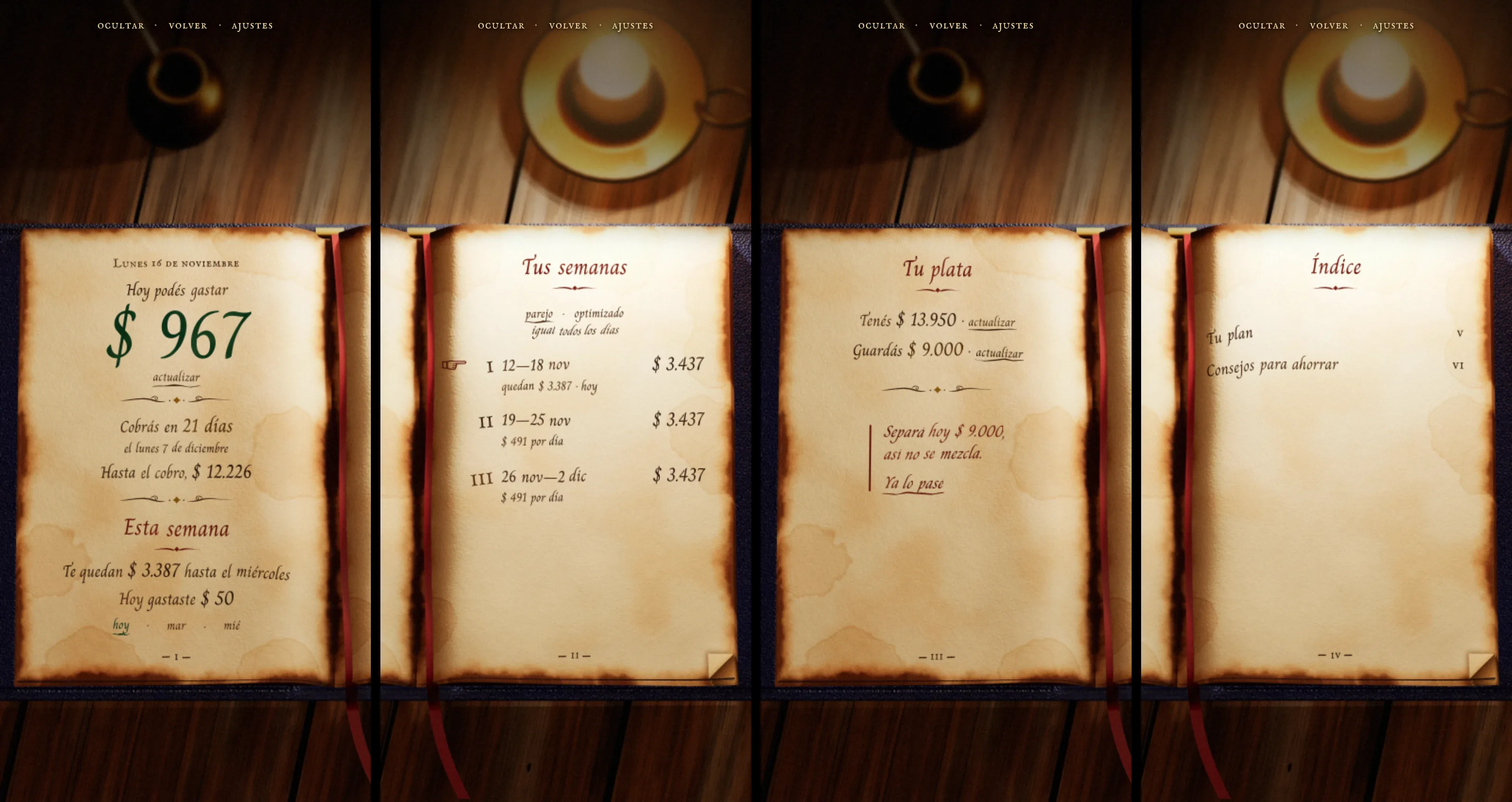
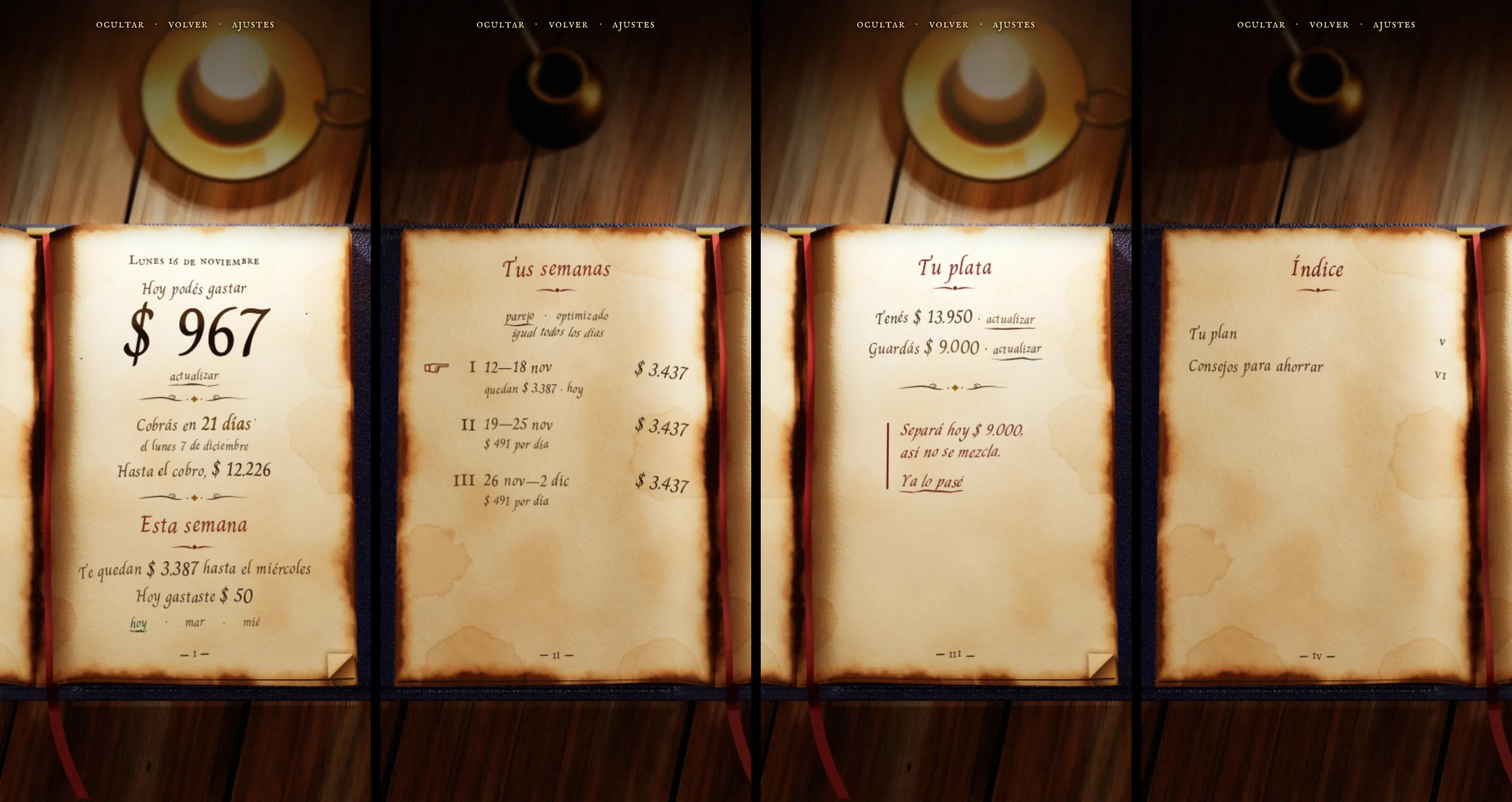
Hoy, pulido: el héroe en tinta, letra por letra, vuelta de hoja que sigue al dedo y la vela en la página i
Pedido de Agus. Solo prototipo/ y docs/decisiones.md: la app real no cambia.
- «$ 967» en la misma tinta sepia, más cargada (más oscura donde se junta, trazo apenas más grueso). Excepción a la
  regla de colores (jade = plata disponible) anotada en docs/decisiones.md.
- Cada letra con una variación fija: ±1,2° de giro, ±0,8 px de altura, ±3 % de tamaño. Intensidad de tinta distinta
  por palabra. Gotas mínimas de tinta junto a «$ 967» y «21 días». Notas nunca bajo 13 px (también a 320).
- Vuelta de hoja en 16 franjas que se curvan sobre un cilindro: sigue al dedo, termina si pasó un 35 % o el gesto fue
  rápido, si no vuelve. Luz en el doblez, dorso con el texto de atrás apenas visible y espejado, sombra que sigue al
  doblez. Solo transform y opacity; con «reducir movimiento», un fundido.
- Lados invertidos: las páginas impares (i Hoy) van a la derecha, con la vela.
Medido por guion en las seis páginas a 390 y 320 px: contraste AA, nada bajo 13 px, toques de 44 px, sin scroll,
ningún número en modo discreto. Sin medir todavía: los cuadros por segundo en el iPhone.

Claude-Session: https://claude.ai/code/session_018jzn9MgtH19HKQt42gAWeF

diff --git a/prototipo/hoy/index.html b/prototipo/hoy/index.html
@@ -12,7 +12,9 @@
   @font-face{font-family:'IM Fell SC';font-weight:400;font-display:block;src:url(fuentes/im-fell-english-sc-latin-400-normal.woff2) format('woff2')}
   :root{--pluma:'Charm','Iowan Old Style',Georgia,serif;--libro:'IM Fell SC','Iowan Old Style',Georgia,serif;--sepia:#4a2c14}
   html,body{margin:0;height:100%;background:#030201;overflow:hidden;-webkit-tap-highlight-color:transparent;-webkit-text-size-adjust:100%}
-  .mesa{position:fixed;inset:0;overflow:hidden;background:#030201;touch-action:pan-y;perspective:1600px}
+  .mesa{position:fixed;inset:0;overflow:hidden;background:#030201;touch-action:none;perspective:1700px}
+  /* arrastrar la hoja no tiene que seleccionar texto */
+  .mesa,.mesa *{-webkit-user-select:none;user-select:none;-webkit-touch-callout:none}
   /* la vista: la foto de la mesa con el libro (renderizada desde la escena 3D) y, encima, la página escrita */
   .vista{position:absolute;inset:0;isolation:isolate}
   .fondo{position:absolute;left:0;top:0;transform-origin:0 0;max-width:none;display:block;user-select:none;-webkit-user-select:none;pointer-events:none}
@@ -24,7 +26,7 @@
 
   /* ---- arriba, sobre la mesa: tres palabras en versalitas, a la luz de la vela ---- */
   .acciones{position:absolute;z-index:6;left:0;right:0;top:calc(4px + env(safe-area-inset-top));display:flex;justify-content:center;align-items:center;
-    font:400 calc(13px*var(--s,1))/1 var(--libro);letter-spacing:.06em;color:#e6cd9c;text-shadow:0 1px 3px #000,0 0 10px rgba(0,0,0,.9)}
+    font:400 max(13.4px,calc(13px*var(--s,1)))/1 var(--libro);letter-spacing:.06em;color:#e6cd9c;text-shadow:0 1px 3px #000,0 0 10px rgba(0,0,0,.9)}
   .acciones button{all:unset;cursor:pointer;min-width:44px;min-height:44px;padding:0 10px;display:grid;place-items:center}
   .acciones button:focus-visible{outline:1.5px solid #e6cd9c;outline-offset:-6px;border-radius:6px}
   .acciones .pt{opacity:.7}
@@ -41,6 +43,13 @@
     -webkit-background-clip:text;background-clip:text;color:transparent;-webkit-text-fill-color:transparent;
     padding:.3em .05em .34em;margin:-.3em -.05em -.34em;white-space:nowrap;
     transform:translateY(calc(var(--dy,0px) + var(--cy,0px))) rotate(calc(var(--g,0deg) + var(--cg,0deg)))}
+  /* letra por letra: cada una un poco girada, corrida y de otro tamaño (fijo, sale siempre igual) */
+  .l{display:inline-block;background-image:var(--tt,var(--t-sepia));background-size:160px 160px;background-position:var(--bx,0) var(--by,0);
+    -webkit-background-clip:text;background-clip:text;color:transparent;-webkit-text-fill-color:transparent;padding:.3em .16em .34em;margin:-.3em -.16em -.34em;
+    /* (el margen de cada lado es para la letra inclinada: si no, su tinta se recorta) */
+    transform:translateY(var(--ly,0)) rotate(var(--lr,0deg)) scale(var(--le,1))}
+  .w.conl,.m.conl{background-image:none}
+  .w,.m{opacity:var(--carga,1)}
   .suave{--tt:var(--t-suave)} .fuerte{--tt:var(--t-fuerte)} .rojo{--tt:var(--t-rojo)} .oro{--tt:var(--t-oro)} .verde{--tt:var(--t-verde)}
   button{all:unset;position:relative;cursor:pointer;font:inherit}
   .toc::after{content:"";position:absolute;left:50%;top:50%;width:max(calc(100% + 16px),48px);height:48px;transform:translate(-50%,-50%)}
@@ -48,10 +57,15 @@
   svg.trazo{position:absolute;left:-3%;bottom:-.24em;width:106%;height:.5em;overflow:visible;pointer-events:none}
 
   /* ---- los cinco tamaños (a 390 px; a 320 px todo al 85 %) ---- */
-  .heroe{font-size:calc(72px*var(--s));line-height:1.02;white-space:nowrap}
+  .heroe{font-size:calc(72px*var(--s));line-height:1.02;white-space:nowrap;position:relative}
+  /* el héroe: la misma tinta, pero más cargada; cada letra con el trazo un poco más grueso donde arranca la pluma */
+  .cargada{--tt:var(--t-cargada)}
+  .heroe .l{-webkit-text-stroke:var(--sk,.5px) rgba(34,16,5,.5)}
+  .grande.oro .l{-webkit-text-stroke:calc(var(--sk,.5px)*.5) rgba(110,70,8,.35)}
+  .gota{position:absolute;border-radius:50%;background:radial-gradient(circle at 40% 35%,#3a1c08,#24110500 72%);pointer-events:none}
   .titulo{font-size:calc(24px*var(--s));line-height:1.15}
   .cifra{font-size:calc(20px*var(--s))}
-  .nota{font-size:calc(13px*var(--s));line-height:1.4}
+  .nota{font-size:max(13.4px,calc(13px*var(--s)));line-height:1.4}
   .libro{font-family:var(--libro);letter-spacing:.05em}
   .cur{font-style:italic}
 
@@ -61,7 +75,7 @@
   .adornito{display:block;width:30%;height:calc(10px*var(--s));margin:calc(4px*var(--s)) auto calc(14px*var(--s)*var(--a,1))}
   .renglon+.renglon{margin-top:calc(6px*var(--s)*var(--a,1))}
   .bloque{margin-top:calc(8px*var(--s)*var(--a,1))}
-  .folio{position:absolute;left:0;right:0;bottom:calc(16px*var(--s));font-size:calc(13px*var(--s))}
+  .folio{position:absolute;left:0;right:0;bottom:calc(16px*var(--s));font-size:max(13.4px,calc(13px*var(--s)))}
   .dias{display:flex;justify-content:center;gap:calc(18px*var(--s));margin-top:calc(10px*var(--s)*var(--a,1))}
   .hoydia svg.trazo path{fill:#0f4a2a}
   /* la lista de semanas: la única con dos columnas, como un libro de cuentas */
@@ -80,7 +94,7 @@
   .margen::before{content:"";position:absolute;left:0;top:.2em;bottom:.2em;width:1.6px;background:#7a2014;border-radius:1px;transform:rotate(.4deg)}
   .indice{margin-top:calc(10px*var(--s)*var(--a,1));text-align:left}
   .entrada{display:flex;justify-content:space-between;align-items:baseline;width:100%;padding:calc(6px*var(--s)) 0}
-  .entrada .libro{font-size:calc(15px*var(--s))}
+  .entrada .libro{font-size:max(13.4px,calc(15px*var(--s)))}
 
   /* ---- modo discreto: el monto se saca de la página y queda una mancha de tinta en su lugar ---- */
   html[data-discreto] .m{position:relative;background-image:none}
@@ -90,13 +104,17 @@
   .esquina{position:absolute;z-index:5;width:56px;height:56px;cursor:pointer;background:none;border:0;padding:0}
   .esquina:focus-visible{outline:1.5px solid #e6cd9c;border-radius:50%}
   .esquina[hidden]{display:none}
-  /* la hoja que da vuelta (una copia de la vista anterior, recortada a la página) */
+  /* ---- la vuelta de hoja: la hoja (una copia de la vista anterior) cortada en 16 franjas verticales que giran de a poco ---- */
   .giro{position:absolute;inset:0;z-index:4;pointer-events:none;transform-style:preserve-3d}
-  .giro .cara,.giro .dorso{position:absolute;inset:0;backface-visibility:hidden;-webkit-backface-visibility:hidden}
-  .giro .dorso{transform:rotateY(180deg);background:linear-gradient(90deg,#b49466,#d9c39a 30%,#e2cfa9 60%,#c4a77a)}
-  .giro .luz{position:absolute;inset:0;opacity:0}
-  .velo-viejo{position:absolute;inset:0;z-index:3;pointer-events:none}
-  .sombra-giro{position:absolute;inset:0;z-index:3;pointer-events:none;opacity:0;background:linear-gradient(90deg,rgba(10,5,2,.55),rgba(10,5,2,0) 60%)}
+  .franja{position:absolute;transform-style:preserve-3d;will-change:transform}
+  .franja>div{position:absolute;inset:0;overflow:hidden;backface-visibility:hidden;-webkit-backface-visibility:hidden}
+  .franja .reves{transform:rotateY(180deg)}
+  .franja .copia{position:absolute;isolation:isolate}
+  .franja .lavado{position:absolute;inset:0;background:#e2cfa4;opacity:.8}
+  .franja .tono{position:absolute;inset:0;background:#120802;opacity:0;will-change:opacity}
+  .franja .brillo{position:absolute;inset:0;background:#fff3dc;opacity:0;will-change:opacity}
+  .velo-viejo{position:absolute;inset:0;z-index:3;pointer-events:none;will-change:opacity}
+  .sombra-giro{position:absolute;z-index:3;pointer-events:none;opacity:0;will-change:transform,opacity}
 </style>
 </head>
 <body>
@@ -109,10 +127,10 @@
     <article class="pag" data-n="1" aria-label="Página i: Hoy">
       <p class="encab nota libro suave">Lunes 16 de noviembre</p>
       <p>Hoy podés gastar</p>
-      <p class="heroe verde"><span class="m" id="monto">$ 967</span></p>
+      <p class="heroe cargada" id="heroe"><span class="m" id="monto">$ 967</span></p>
       <p class="nota"><button class="toc sub" type="button">actualizar</button></p>
       <svg class="adorno" viewBox="0 0 220 24" aria-hidden="true"><use href="#floritura"/></svg>
-      <p class="renglon">Cobrás en <span class="cifra oro">21 días</span></p>
+      <p class="renglon">Cobrás en <span class="cifra oro grande" id="dias21" style="position:relative">21 días</span></p>
       <p class="nota suave">el lunes 7 de diciembre</p>
       <p class="renglon bloque">Hasta el cobro, <span class="cifra fuerte"><span class="m">$ 12.226</span></span></p>
       <svg class="adorno" viewBox="0 0 220 24" aria-hidden="true"><use href="#floritura"/></svg>
@@ -238,10 +256,19 @@ function aPluma(n){
     if(!n.textContent.trim())return;
     const f=document.createDocumentFragment();
     n.textContent.split(/(\s+)/).forEach(t=>{if(!t)return;if(/^\s+$/.test(t)){f.appendChild(document.createTextNode(' '));return}
-      const s=document.createElement('span');s.className='w';s.textContent=t;vestir(s);f.appendChild(s)});
+      const s=document.createElement('span');s.className='w';s.textContent=t;vestir(s);letras(s);f.appendChild(s)});
     n.parentNode.replaceChild(f,n)}
-  else if(n.nodeType===1&&n.tagName.toLowerCase()!=='svg'){if(n.classList.contains('m')){vestir(n);return}[...n.childNodes].forEach(aPluma)}}
-function vestir(s){s.style.setProperty('--dy',((rPal()-.5)*1.5).toFixed(2)+'px');s.style.setProperty('--g',((rPal()-.5)*1.7).toFixed(2)+'deg');s.style.setProperty('--bx',Math.round(rPal()*160)+'px');s.style.setProperty('--by',Math.round(rPal()*160)+'px');nPal++}
+  else if(n.nodeType===1&&n.tagName.toLowerCase()!=='svg'){if(n.classList.contains('m')){vestir(n);letras(n);return}[...n.childNodes].forEach(aPluma)}}
+/* cada letra, con una variación chica y fija: ±1,2° de giro, ±0,8 px de altura y ±3 % de tamaño */
+const rLet=azar(91);
+function letras(el){
+  if(el.children.length||!el.textContent.trim())return;
+  const t=el.textContent;el.textContent='';el.classList.add('conl');
+  for(const ch of t){if(ch===' '){el.appendChild(document.createTextNode(' '));continue}
+    const l=document.createElement('span');l.className='l';l.textContent=ch;
+    l.style.setProperty('--lr',((rLet()-.5)*2.4).toFixed(2)+'deg');l.style.setProperty('--ly',((rLet()-.5)*1.6).toFixed(2)+'px');l.style.setProperty('--le',(.97+rLet()*.06).toFixed(3));
+    l.style.setProperty('--sk',(.25+rLet()*.7).toFixed(2)+'px');el.appendChild(l)}}
+function vestir(s){s.style.setProperty('--carga',(.86+rPal()*.14).toFixed(2));s.style.setProperty('--dy',((rPal()-.5)*1.5).toFixed(2)+'px');s.style.setProperty('--g',((rPal()-.5)*1.7).toFixed(2)+'deg');s.style.setProperty('--bx',Math.round(rPal()*160)+'px');s.style.setProperty('--by',Math.round(rPal()*160)+'px');nPal++}
 
 /* ---- trazos de pluma irregulares para los subrayados (cada uno distinto) ---- */
 function trazo(semilla,color){
@@ -280,11 +307,12 @@ function curvar(pag,w){
     const s=Math.max(0,izq?1-x/w:x/w),dy=A*Math.exp(-((s/S)**2)),pend=-2*s/(S*S)*dy/w*(izq?-1:1);
     el.style.setProperty('--cy',dy.toFixed(2)+'px');el.style.setProperty('--cg',(Math.atan(pend)*57.3).toFixed(2)+'deg')})}
 
-raiz.style.setProperty('--t-verde',baldosa([10,58,32],[44,96,62],1));   /* la plata disponible */
+raiz.style.setProperty('--t-verde',baldosa([10,58,32],[44,96,62],1));   /* el subrayado de «hoy» */
+raiz.style.setProperty('--t-cargada',baldosa([26,12,4],[74,42,17],1.5)); /* el héroe: la pluma bien cargada, más oscura donde se junta la tinta */
 
-/* ---- qué página está a la vista. Las impares van en la página izquierda del libro y las pares en la derecha ---- */
+/* ---- qué página está a la vista. Las impares van en la página derecha del libro (con la vela) y las pares en la izquierda (con el tintero) ---- */
 let n=Math.min(PAGS.length,Math.max(1,+(Q.get('p')||1)));
-const ladoDe=k=>k%2?'izq':'der';
+const ladoDe=k=>k%2?'der':'izq';
 let geo=null;
 function escala(w){return Math.min(1,Math.max(.85,.85+(w-320)/70*.15))}
 function acomodar(){
@@ -315,49 +343,126 @@ function acomodar(){
 function ajustar(pag,h){
   let a=1;const sobra=()=>{pag.style.height='auto';const s=pag.scrollHeight;pag.style.height=h+'px';return s-h};
   pag.style.setProperty('--a','1');
-  while(sobra()>0&&a>.2){a-=.08;pag.style.setProperty('--a',a.toFixed(2))}
+  while(sobra()>0&&a>.04){a-=.06;pag.style.setProperty('--a',a.toFixed(2))}
   return {a:+a.toFixed(2),sobra:Math.round(sobra())}}
 
-/* ---- pasar la hoja: una vuelta de hoja de 0,6 s. La vista anterior se copia; la hoja (recortada a la página) gira
-   sobre su borde y muestra el dorso, mientras la mesa de antes se desvanece sobre la nueva. Con «reducir movimiento», un fundido ---- */
-let girando=false;
+/* ---- la vuelta de hoja ----
+   La hoja es una copia de la vista anterior cortada en 16 franjas verticales. Cada franja gira sobre su borde un poco
+   más que la anterior, así la hoja se curva (no gira rígida): queda plana hasta el doblez y después se enrolla sobre un
+   cilindro. En el doblez, una luz suave; del otro lado, el dorso con el texto de atrás apenas visible y espejado; abajo,
+   una sombra que sigue al doblez. Sigue al dedo; al soltar termina o vuelve. Solo se animan transform y opacity.
+   Con «reducir movimiento», solo un fundido. */
+const NF=16,PI=Math.PI;
 function quieto(){try{return matchMedia('(prefers-reduced-motion: reduce)').matches}catch(e){return false}}
-function ir(destino){
-  if(girando||destino<1||destino>PAGS.length||destino===n)return;
-  const dir=destino>n?1:-1,viejo=vista.cloneNode(true);viejo.removeAttribute('id');viejo.querySelectorAll('[id]').forEach(e=>e.removeAttribute('id'));
-  const g0=geo;n=destino;acomodar();girando=true;
-  const fin=()=>{girando=false;[base,giro,sombra].forEach(e=>e&&e.remove())};
-  let base=null,giro=null,sombra=null;
-  if(quieto()||!viejo.animate){base=viejo;base.className='vista velo-viejo';mesa.appendChild(base);
-    if(!base.animate){fin();return}base.animate([{opacity:1},{opacity:0}],{duration:300,easing:'ease-in-out'}).onfinish=fin;return}
-  const poli='polygon('+g0.q.map(p=>p[0].toFixed(1)+'px '+p[1].toFixed(1)+'px').join(',')+')';
-  /* lo que queda atrás de la hoja que gira: solo la mesa de antes, sin letras (así nunca se ven dos textos encimados) */
-  base=viejo.cloneNode(true);base.className='vista velo-viejo';base.querySelectorAll('.pag').forEach(e=>e.remove());mesa.appendChild(base);
-  giro=document.createElement('div');giro.className='giro';
-  const eje=dir>0?Math.min(g0.q[0][0],g0.q[3][0]):Math.max(g0.q[1][0],g0.q[2][0]);
-  giro.style.transformOrigin=eje.toFixed(1)+'px 50%';
-  viejo.className='vista cara';viejo.style.clipPath=poli;
-  const dorso=document.createElement('div');dorso.className='dorso';dorso.style.clipPath=poli;
-  const luzG=document.createElement('div');luzG.className='luz';luzG.style.clipPath=poli;luzG.style.background=`linear-gradient(${dir>0?90:270}deg,rgba(255,240,210,.0),rgba(255,240,210,.35) 70%,rgba(30,15,5,.4))`;
-  giro.append(viejo,dorso,luzG);mesa.appendChild(giro);
-  sombra=document.createElement('div');sombra.className='sombra-giro';if(dir<0)sombra.style.transform='scaleX(-1)';mesa.appendChild(sombra);
-  const T=600,ease='cubic-bezier(.45,.05,.3,1)';
-  base.animate([{opacity:1},{opacity:1,offset:.25},{opacity:0}],{duration:T*.8,easing:'ease-in-out',fill:'forwards'});
-  sombra.animate([{opacity:0},{opacity:1,offset:.45},{opacity:0}],{duration:T,easing:'ease-in-out'});
-  luzG.animate([{opacity:0},{opacity:.9,offset:.4},{opacity:0,offset:.5},{opacity:0}],{duration:T,easing:'linear'});
-  giro.animate([{transform:'rotateY(0deg) skewY(0deg)'},{transform:`rotateY(${-dir*70}deg) skewY(${dir*1.6}deg)`,offset:.4},{transform:`rotateY(${-dir*180}deg) skewY(0deg)`}],{duration:T,easing:ease,fill:'forwards'}).onfinish=fin;
+let G=null; /* la vuelta en curso */
+function limpiaIds(el){el.removeAttribute('id');el.querySelectorAll('[id]').forEach(e=>e.removeAttribute('id'));return el}
+function crearGiro(dir){
+  const destino=n+dir;if(destino<1||destino>PAGS.length)return null;
+  const viejo=limpiaIds(vista.cloneNode(true)),q=geo.q,W0=geo.w,H0=geo.h,desde=n;
+  const xL=Math.min(q[0][0],q[3][0]),xR=Math.max(q[1][0],q[2][0]),yT=Math.min(q[0][1],q[1][1]),yB=Math.max(q[2][1],q[3][1]),W=xR-xL,H=yB-yT,sw=W/NF;
+  const yt=x=>q[0][1]+(q[1][1]-q[0][1])*(x-q[0][0])/(q[1][0]-q[0][0]),yb=x=>q[3][1]+(q[2][1]-q[3][1])*(x-q[3][0])/(q[2][0]-q[3][0]);
+  n=destino;acomodar(); /* la página nueva queda abajo, esperando */
+  /* la mesa de antes, sin la página (agujereada donde está la hoja), se desvanece mientras la hoja gira */
+  const base=limpiaIds(viejo.cloneNode(true));base.className='vista velo-viejo';base.querySelectorAll('.pag').forEach(e=>e.remove());
+  base.style.clipPath=`path(evenodd,'M0 0H${W0}V${H0}H0Z M${q.map(p=>p[0].toFixed(1)+' '+p[1].toFixed(1)).join(' L')}Z')`;
+  const giro=document.createElement('div');giro.className='giro';
+  const franjas=[];
+  for(let i=0;i<NF;i++){
+    const x0=xL+i*sw,x1=x0+sw+.7,f=document.createElement('div');f.className='franja';
+    f.style.cssText=`left:${x0.toFixed(2)}px;top:${yT.toFixed(2)}px;width:${(x1-x0).toFixed(2)}px;height:${H.toFixed(2)}px;transform-origin:${dir>0?'0':'100%'} 50%`;
+    const corte=`polygon(0 ${(yt(x0)-yT).toFixed(1)}px,100% ${(yt(x1)-yT).toFixed(1)}px,100% ${(yb(x1)-yT).toFixed(1)}px,0 ${(yb(x0)-yT).toFixed(1)}px)`;
+    const cara=document.createElement('div'),reves=document.createElement('div');reves.className='reves';
+    cara.style.clipPath=corte;reves.style.clipPath=`polygon(0 ${(yt(x1)-yT).toFixed(1)}px,100% ${(yt(x0)-yT).toFixed(1)}px,100% ${(yb(x0)-yT).toFixed(1)}px,0 ${(yb(x1)-yT).toFixed(1)}px)`;
+    const c1=i?viejo.cloneNode(true):viejo;c1.className='copia';c1.style.cssText=`left:${(-x0).toFixed(2)}px;top:${(-yT).toFixed(2)}px;width:${W0}px;height:${H0}px`;
+    /* el dorso: la misma hoja espejada y lavada con el color del papel: el texto de atrás apenas se adivina */
+    const c2=c1.cloneNode(true);c2.style.transform=`scaleX(-1)`;c2.style.transformOrigin=`${(x0+(x1-x0)/2).toFixed(2)}px 0`;
+    const tono=document.createElement('div');tono.className='tono';const brillo=document.createElement('div');brillo.className='brillo';
+    const tono2=document.createElement('div');tono2.className='tono';
+    cara.append(c1,tono,brillo);const lav=document.createElement('div');lav.className='lavado';reves.append(c2,lav,tono2);
+    f.append(cara,reves);giro.appendChild(f);franjas.push({f,tono,brillo,tono2});
+  }
+  if(dir<0)franjas.reverse(); /* hacia atrás, la hoja gira sobre su borde derecho: se cuenta desde ahí */
+  const sombra=document.createElement('div');sombra.className='sombra-giro';
+  sombra.style.cssText=`left:0;top:${yT.toFixed(1)}px;width:${(W*.42).toFixed(1)}px;height:${H.toFixed(1)}px;background:linear-gradient(${dir>0?90:270}deg,rgba(14,6,2,.62),rgba(14,6,2,.22) 35%,rgba(14,6,2,0))`;
+  mesa.append(base,sombra,giro);
+  const R=W*.17;
+  function pintar(p){
+    p=Math.max(0,Math.min(1,p));
+    const fold=(1-p)*W-p*PI*R;let X=0,Z=0;
+    franjas.forEach((s,i)=>{
+      const sIni=i*sw,th=Math.max(0,Math.min(PI,(sIni+sw/2-fold)/R));
+      const tx=dir>0?X-sIni:-(X-sIni);
+      s.f.style.transform=`translate3d(${tx.toFixed(2)}px,0,${Z.toFixed(2)}px) rotateY(${(dir>0?-th:th).toFixed(4)}rad)`;
+      s.tono.style.opacity=(th<PI/2?.42*th/(PI/2):0).toFixed(3);
+      s.brillo.style.opacity=(th>0&&th<PI*.6?.32*Math.sin(th*1.6):0).toFixed(3);
+      s.tono2.style.opacity=(th>PI/2?.4*(1-(th-PI/2)/(PI/2)):0).toFixed(3);
+      X+=sw*Math.cos(th);Z+=sw*Math.sin(th)});
+    const fx=dir>0?xL+Math.max(0,fold):xR-Math.max(0,fold)-W*.42;
+    sombra.style.transform=`translateX(${fx.toFixed(1)}px)`;sombra.style.opacity=(Math.sin(p*PI)*.95).toFixed(3);
+    base.style.opacity=(1-p).toFixed(3);
+  }
+  pintar(0);
+  return {dir,desde,W,pintar,fin(){[base,sombra,giro].forEach(e=>e.remove())}};
 }
-document.getElementById('adelante').addEventListener('click',()=>ir(n+1));
-document.getElementById('atras').addEventListener('click',()=>ir(n-1));
-let x0=null,y0=0;
-mesa.addEventListener('pointerdown',e=>{x0=e.clientX;y0=e.clientY});
-mesa.addEventListener('pointerup',e=>{if(x0===null)return;const dx=e.clientX-x0,dy=e.clientY-y0;x0=null;if(Math.abs(dx)>50&&Math.abs(dx)>Math.abs(dy)*1.4)ir(n+(dx<0?1:-1))});
+/* lleva la vuelta de p0 a p1 en «dur» ms (curva suave) y al final la cierra */
+function animar(g,p0,p1,dur,alFin){
+  const t0=performance.now(),ease=t=>t<.5?4*t*t*t:1-Math.pow(-2*t+2,3)/2;
+  const tic=now=>{const t=Math.min(1,(now-t0)/dur),p=p0+(p1-p0)*ease(t);g.pintar(p);if(t<1)requestAnimationFrame(tic);else alFin()};
+  requestAnimationFrame(tic);
+}
+function terminar(g,p,ok){
+  g.p=p;
+  if(ok)return()=>{g.fin();G=null};
+  return()=>{g.fin();n=g.desde;acomodar();G=null};
+}
+/* pasar la hoja de una (esquinas, teclado, índice) */
+function ir(destino){
+  if(G||destino===n||destino<1||destino>PAGS.length)return;
+  if(quieto()){fundido(destino);return}
+  if(Math.abs(destino-n)>1){fundido(destino);return}
+  const g=crearGiro(destino>n?1:-1);if(!g)return;G=g;
+  animar(g,0,1,600,terminar(g,1,true));
+}
+function fundido(destino){
+  const viejo=limpiaIds(vista.cloneNode(true));viejo.className='vista velo-viejo';n=destino;acomodar();mesa.appendChild(viejo);
+  if(!viejo.animate){viejo.remove();return}
+  viejo.animate([{opacity:1},{opacity:0}],{duration:300,easing:'ease-in-out'}).onfinish=()=>viejo.remove();
+}
+document.getElementById('adelante').addEventListener('click',()=>{if(!arrastro)ir(n+1)});
+document.getElementById('atras').addEventListener('click',()=>{if(!arrastro)ir(n-1)});
 document.addEventListener('keydown',e=>{if(e.key==='ArrowRight')ir(n+1);if(e.key==='ArrowLeft')ir(n-1)});
 vista.addEventListener('click',e=>{const b=e.target.closest('[data-ir]');if(b)ir(+b.dataset.ir)});
+/* ---- con el dedo: la hoja se levanta y acompaña al dedo; al soltar, si pasó un 35 % del ancho o el gesto fue rápido, termina ---- */
+let toque=null,arrastro=false;
+mesa.addEventListener('pointerdown',e=>{if(G)return;try{getSelection().removeAllRanges()}catch(x){}toque={x:e.clientX,y:e.clientY,id:e.pointerId,pts:[[e.clientX,performance.now()]]};arrastro=false});
+mesa.addEventListener('pointermove',e=>{
+  if(!toque||e.pointerId!==toque.id)return;const dx=e.clientX-toque.x,dy=e.clientY-toque.y;
+  toque.pts.push([e.clientX,performance.now()]);if(toque.pts.length>8)toque.pts.shift();
+  if(!arrastro){
+    if(Math.abs(dx)<10||Math.abs(dx)<Math.abs(dy)*1.2)return;
+    const dir=dx<0?1:-1;if(n+dir<1||n+dir>PAGS.length){toque=null;return}
+    arrastro=true;try{mesa.setPointerCapture(e.pointerId)}catch(x){}
+    if(quieto()){toque.quieto=dir;return}
+    G=crearGiro(dir);if(!G){toque=null;return}
+  }
+  if(G)G.pintar(Math.max(0,-G.dir*dx)/G.W);
+});
+function soltar(e){
+  if(!toque||e.pointerId!==toque.id)return;const t=toque;toque=null;
+  if(!arrastro)return;setTimeout(()=>{arrastro=false},0);
+  if(t.quieto){fundido(n+t.quieto);return}
+  const g=G;if(!g)return;
+  const a=t.pts[0],b=t.pts[t.pts.length-1],v=(b[0]-a[0])/Math.max(1,b[1]-a[1]),dx=e.clientX-t.x,p=Math.max(0,Math.min(1,-g.dir*dx/g.W)),rapido=-g.dir*v>.45;
+  if(p>.35||rapido){const vel=Math.max(Math.abs(v),.55),dur=Math.max(450*(1-p)+60,Math.min(700,(1-p)*g.W/vel*1.6));animar(g,p,1,Math.min(700,dur),terminar(g,1,true))}
+  else animar(g,p,0,Math.max(160,Math.min(450,p*g.W/.7)),terminar(g,0,false));
+}
+mesa.addEventListener('pointerup',soltar);mesa.addEventListener('pointercancel',soltar);
 
 /* ---- armado ---- */
 if(Q.get('monto')==='6767')document.getElementById('monto').textContent='$ 6.767';
 PAGS.forEach(p=>[...p.childNodes].forEach(aPluma));
+/* una gota mínima de tinta cerca de los números grandes, como las que deja la pluma */
+[['heroe',[[.93,.2,3.2],[.06,.86,2.2]]],['dias21',[[1.04,.32,2],[.5,.98,1.5]]]].forEach(([id,gs])=>{const el=document.getElementById(id);if(!el)return;gs.forEach(([x,y,r])=>{const g=document.createElement('span');g.className='gota';g.setAttribute('aria-hidden','true');g.style.cssText=`left:${x*100}%;top:${y*100}%;width:calc(${r}px*var(--s));height:calc(${(r*.86).toFixed(2)}px*var(--s))`;el.appendChild(g)})});
 vista.querySelectorAll('.sub').forEach((b,i)=>b.insertAdjacentHTML('beforeend',trazo(50+i*13,b.closest('.rojo')?'#7a2014':'#4a2c14')));
 manchar();
 

diff --git a/docs/decisiones.md b/docs/decisiones.md
@@ -23,6 +23,7 @@ Una línea por decisión. Lo nuevo va arriba. El detalle técnico de cada una es
 - **Cómo «llaman» los dos libros (2.64):** una luz tenue y cálida que sale de atrás de cada uno y un movimiento apenas visible. Descartado: el halo de color y la lámpara a la vista.
 - **La galaxia de la tapa (2.64):** queda estampada en oro, con la constelación de cada libro encima.
 - **Excepción de colores:** los colores de la escena 3D (madera, luces, cueros) los pone Three.js y no salen de `:root`; lo de afuera (nombres, flechas, velo) sí.
+- **Dentro del libro, la plata disponible va en tinta sepia, no en jade (pedido de Agus, en prueba en `prototipo/hoy/`):** excepción a la regla de colores de `CLAUDE.md`. En las páginas escritas a mano, «Hoy podés gastar $ 967» se destaca por el tamaño y por llevar la pluma más cargada, no por el color. El rojo sigue para títulos, notas y «te pasaste»; el oro, para el tiempo y lo guardado. Fuera del libro, la regla de siempre.
 - **Papel «Noche dorada»:** un solo tema oscuro; no hay claro ni selector de apariencia.
 - **Menos texto:** máximo 2 líneas por bloque, el resto en desplegables.
 
